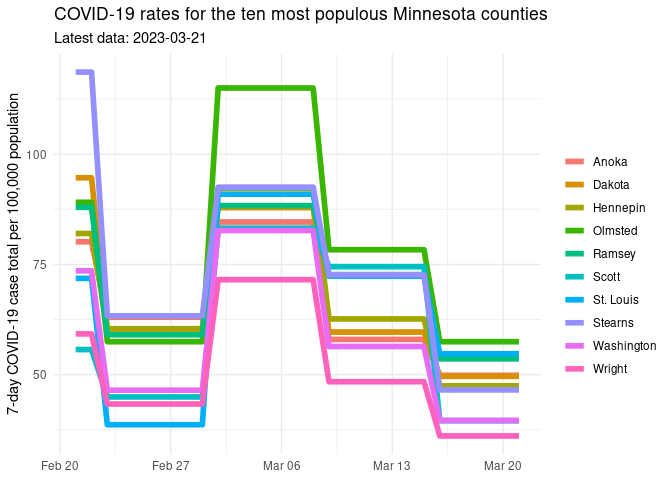
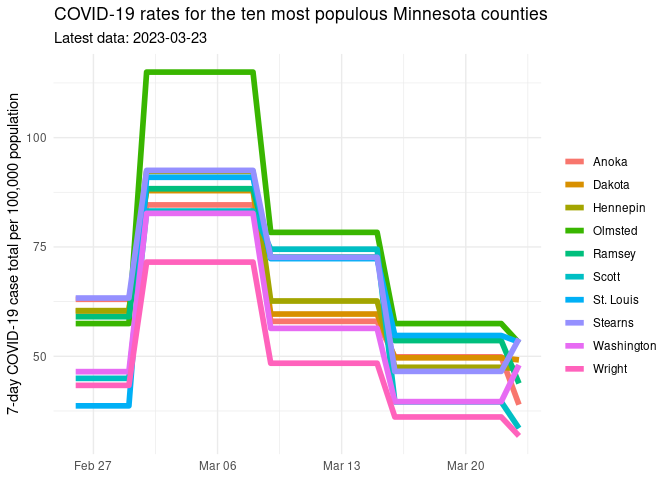
Updated report

diff --git a/README.md b/README.md
@@ -1,7 +1,7 @@
 Minnesota COVID Reports
 ================
 
-Report last run: 2023-03-22 05:40:22
+Report last run: 2023-03-27 05:40:55
 
 ## Introduction
 
@@ -105,25 +105,25 @@ rate_data %>%
   knitr::kable()
 ```
 
-| county       | state |     pop | covid_rate |
-|:-------------|:------|--------:|-----------:|
-| Delta        | Texas |    5331 |     147102 |
-| Frio         | Texas |   20306 |       6259 |
-| Denton       | Texas |  887207 |       4848 |
-| Loving       | Texas |     169 |       4142 |
-| Jones        | Texas |   20083 |       3934 |
-| Hudspeth     | Texas |    4886 |       3909 |
-| Crockett     | Texas |    3464 |       3695 |
-| Jasper       | Texas |   35529 |       3090 |
-| San Patricio | Texas |   66730 |       3069 |
-| Walker       | Texas |   72971 |       2894 |
-| Schleicher   | Texas |    2793 |       2542 |
-| Goliad       | Texas |    7658 |       2468 |
-| Crane        | Texas |    4797 |       2376 |
-| Comal        | Texas |  156209 |       2144 |
-| Deaf Smith   | Texas |   18546 |       2092 |
-| Victoria     | Texas |   92084 |       2045 |
-| Maverick     | Texas |   58722 |       2020 |
-| Childress    | Texas |    7306 |       1848 |
-| Terrell      | Texas |     776 |       1804 |
-| Travis       | Texas | 1273954 |       1789 |
+| county                   | state         |   pop | covid_rate |
+|:-------------------------|:--------------|------:|-----------:|
+| Major                    | Oklahoma      |  7629 |      10067 |
+| McIntosh                 | Oklahoma      | 19596 |       4241 |
+| Hansford                 | Texas         |  5399 |        704 |
+| Cimarron                 | Oklahoma      |  2137 |        702 |
+| Latimer                  | Oklahoma      | 10073 |        536 |
+| Harmon                   | Oklahoma      |  2653 |        528 |
+| Pecos                    | Texas         | 15823 |        487 |
+| Douglas                  | South Dakota  |  2921 |        479 |
+| Yoakum                   | Texas         |  8713 |        448 |
+| Haskell                  | Oklahoma      | 12627 |        443 |
+| Northwest Arctic Borough | Alaska        |  7621 |        420 |
+| Dewey                    | South Dakota  |  5892 |        390 |
+| Menifee                  | Kentucky      |  6489 |        385 |
+| Hyde                     | South Dakota  |  1301 |        384 |
+| Barnes                   | North Dakota  | 10415 |        384 |
+| Wirt                     | West Virginia |  5821 |        378 |
+| St. Croix                | Wisconsin     | 90687 |        371 |
+| Thurston                 | Nebraska      |  7224 |        360 |
+| Bethel Census Area       | Alaska        | 18386 |        354 |
+| Dewey                    | Oklahoma      |  4891 |        348 |
